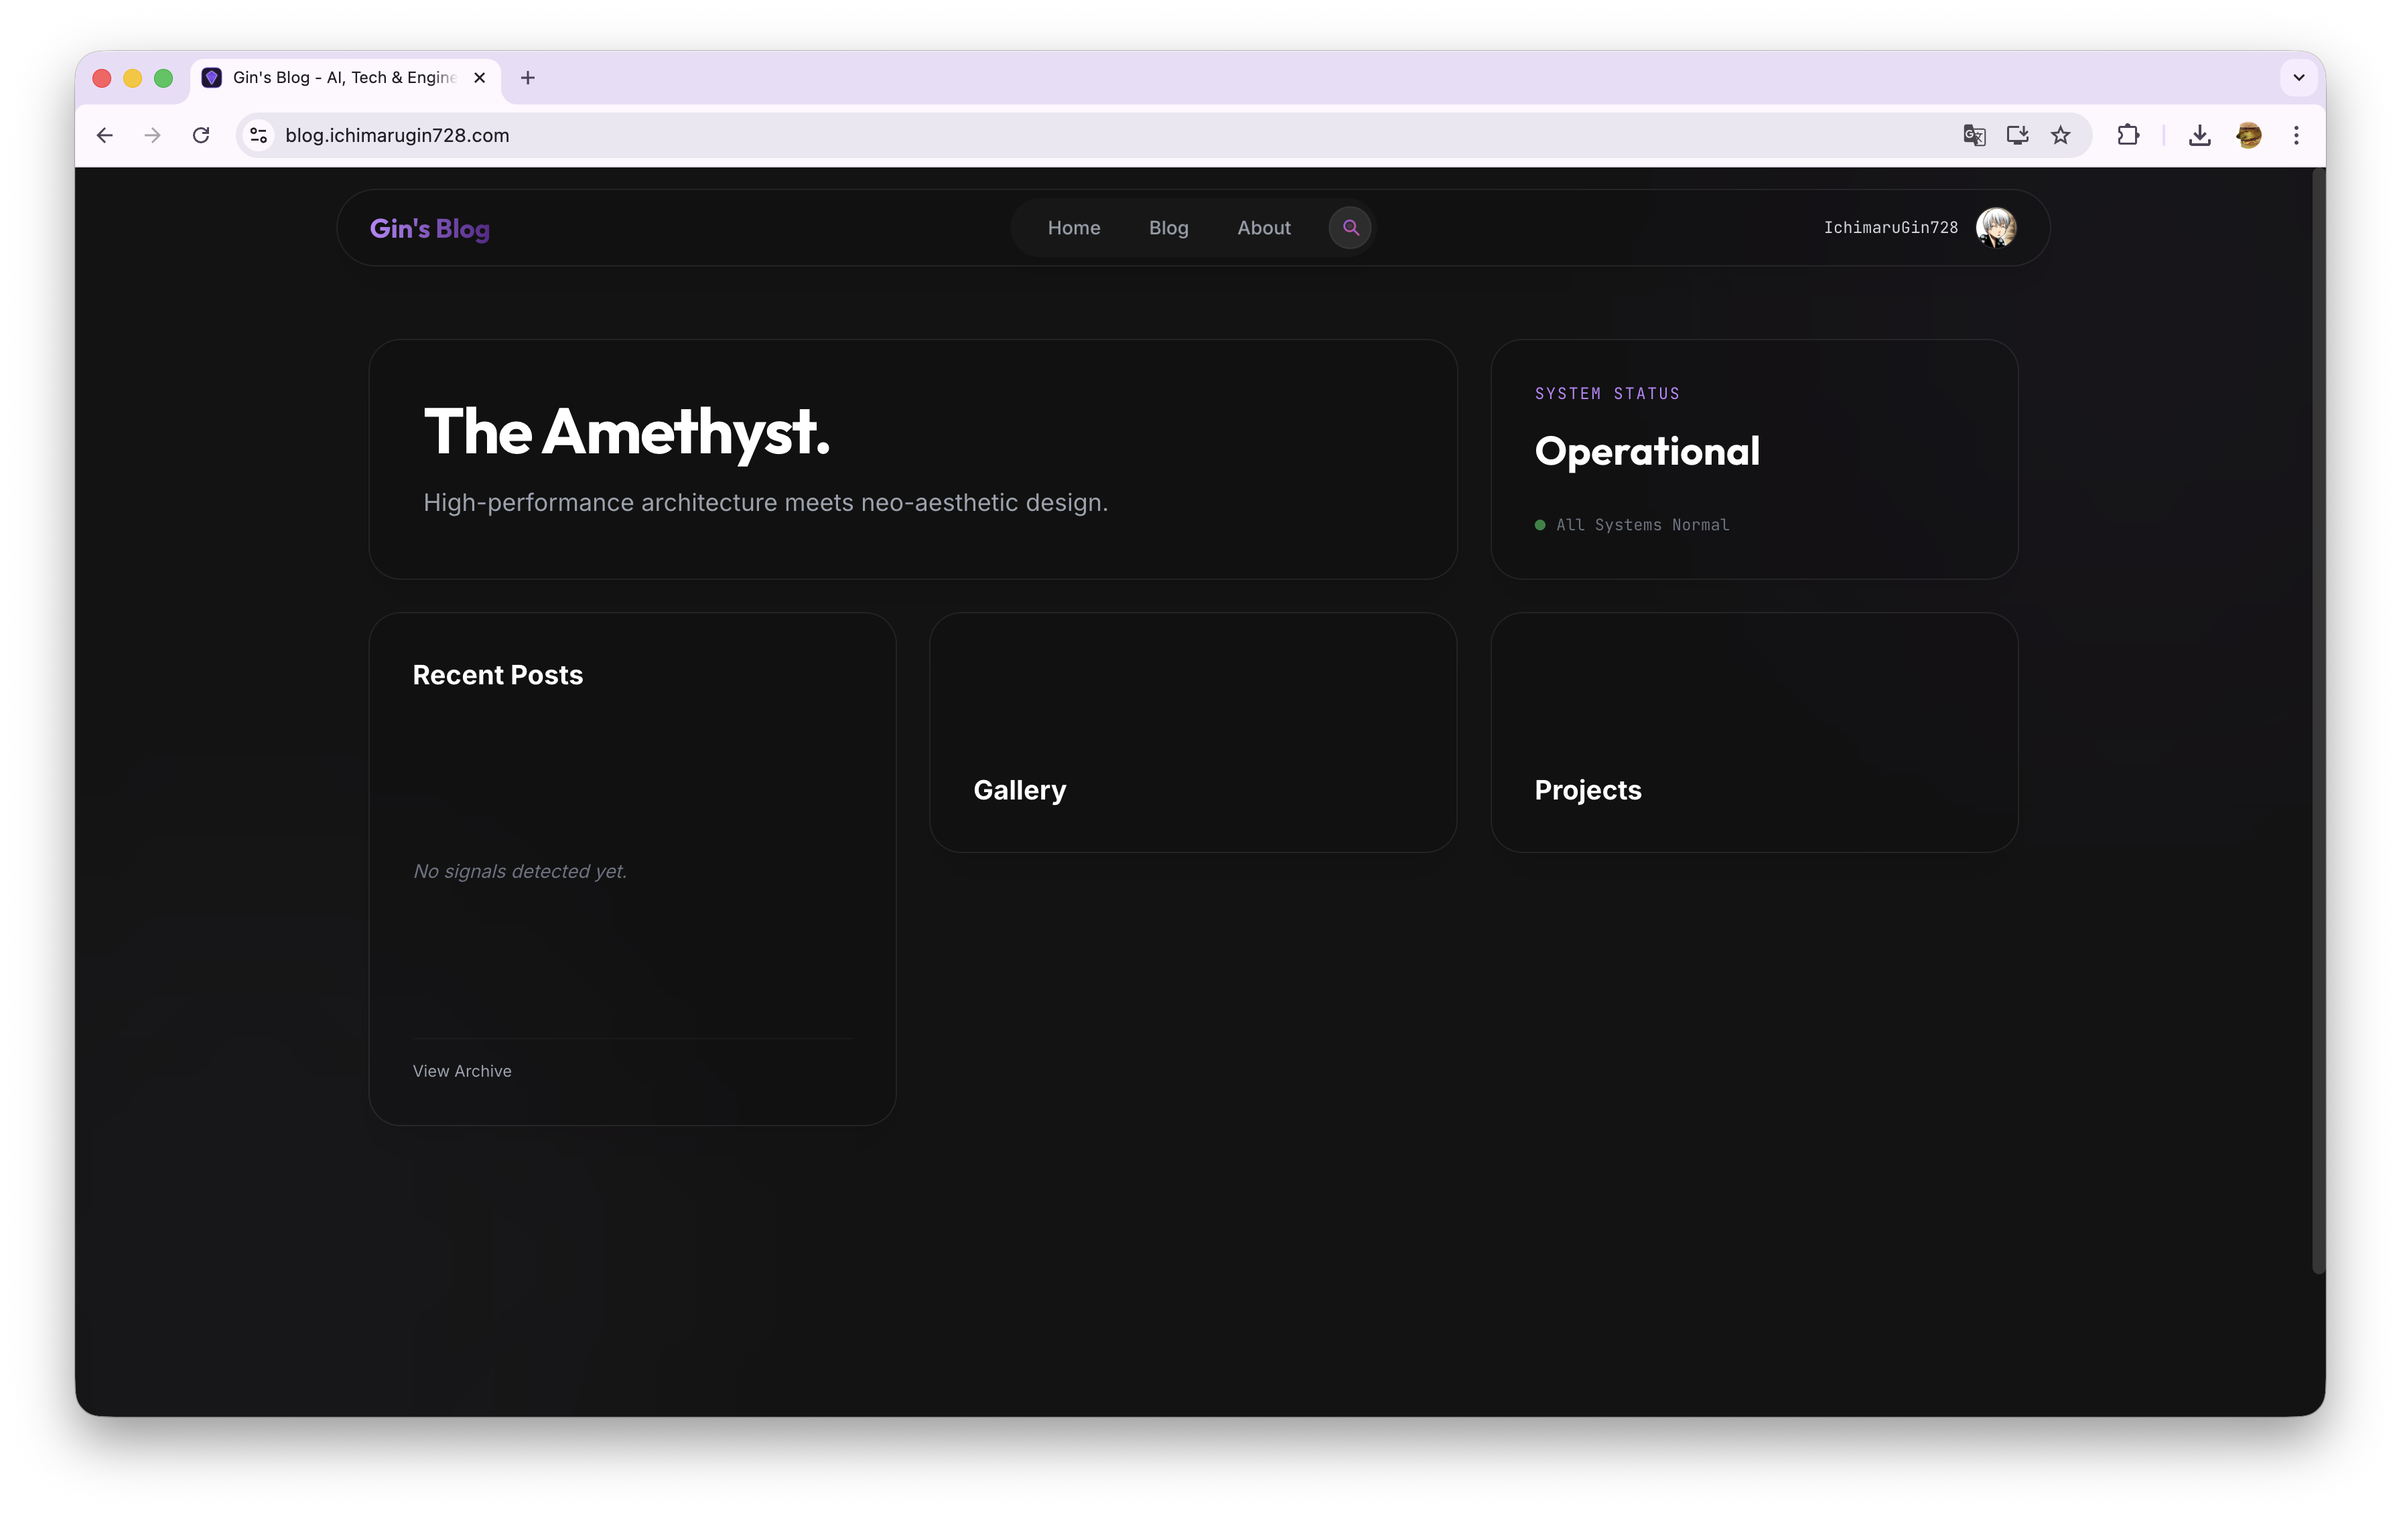
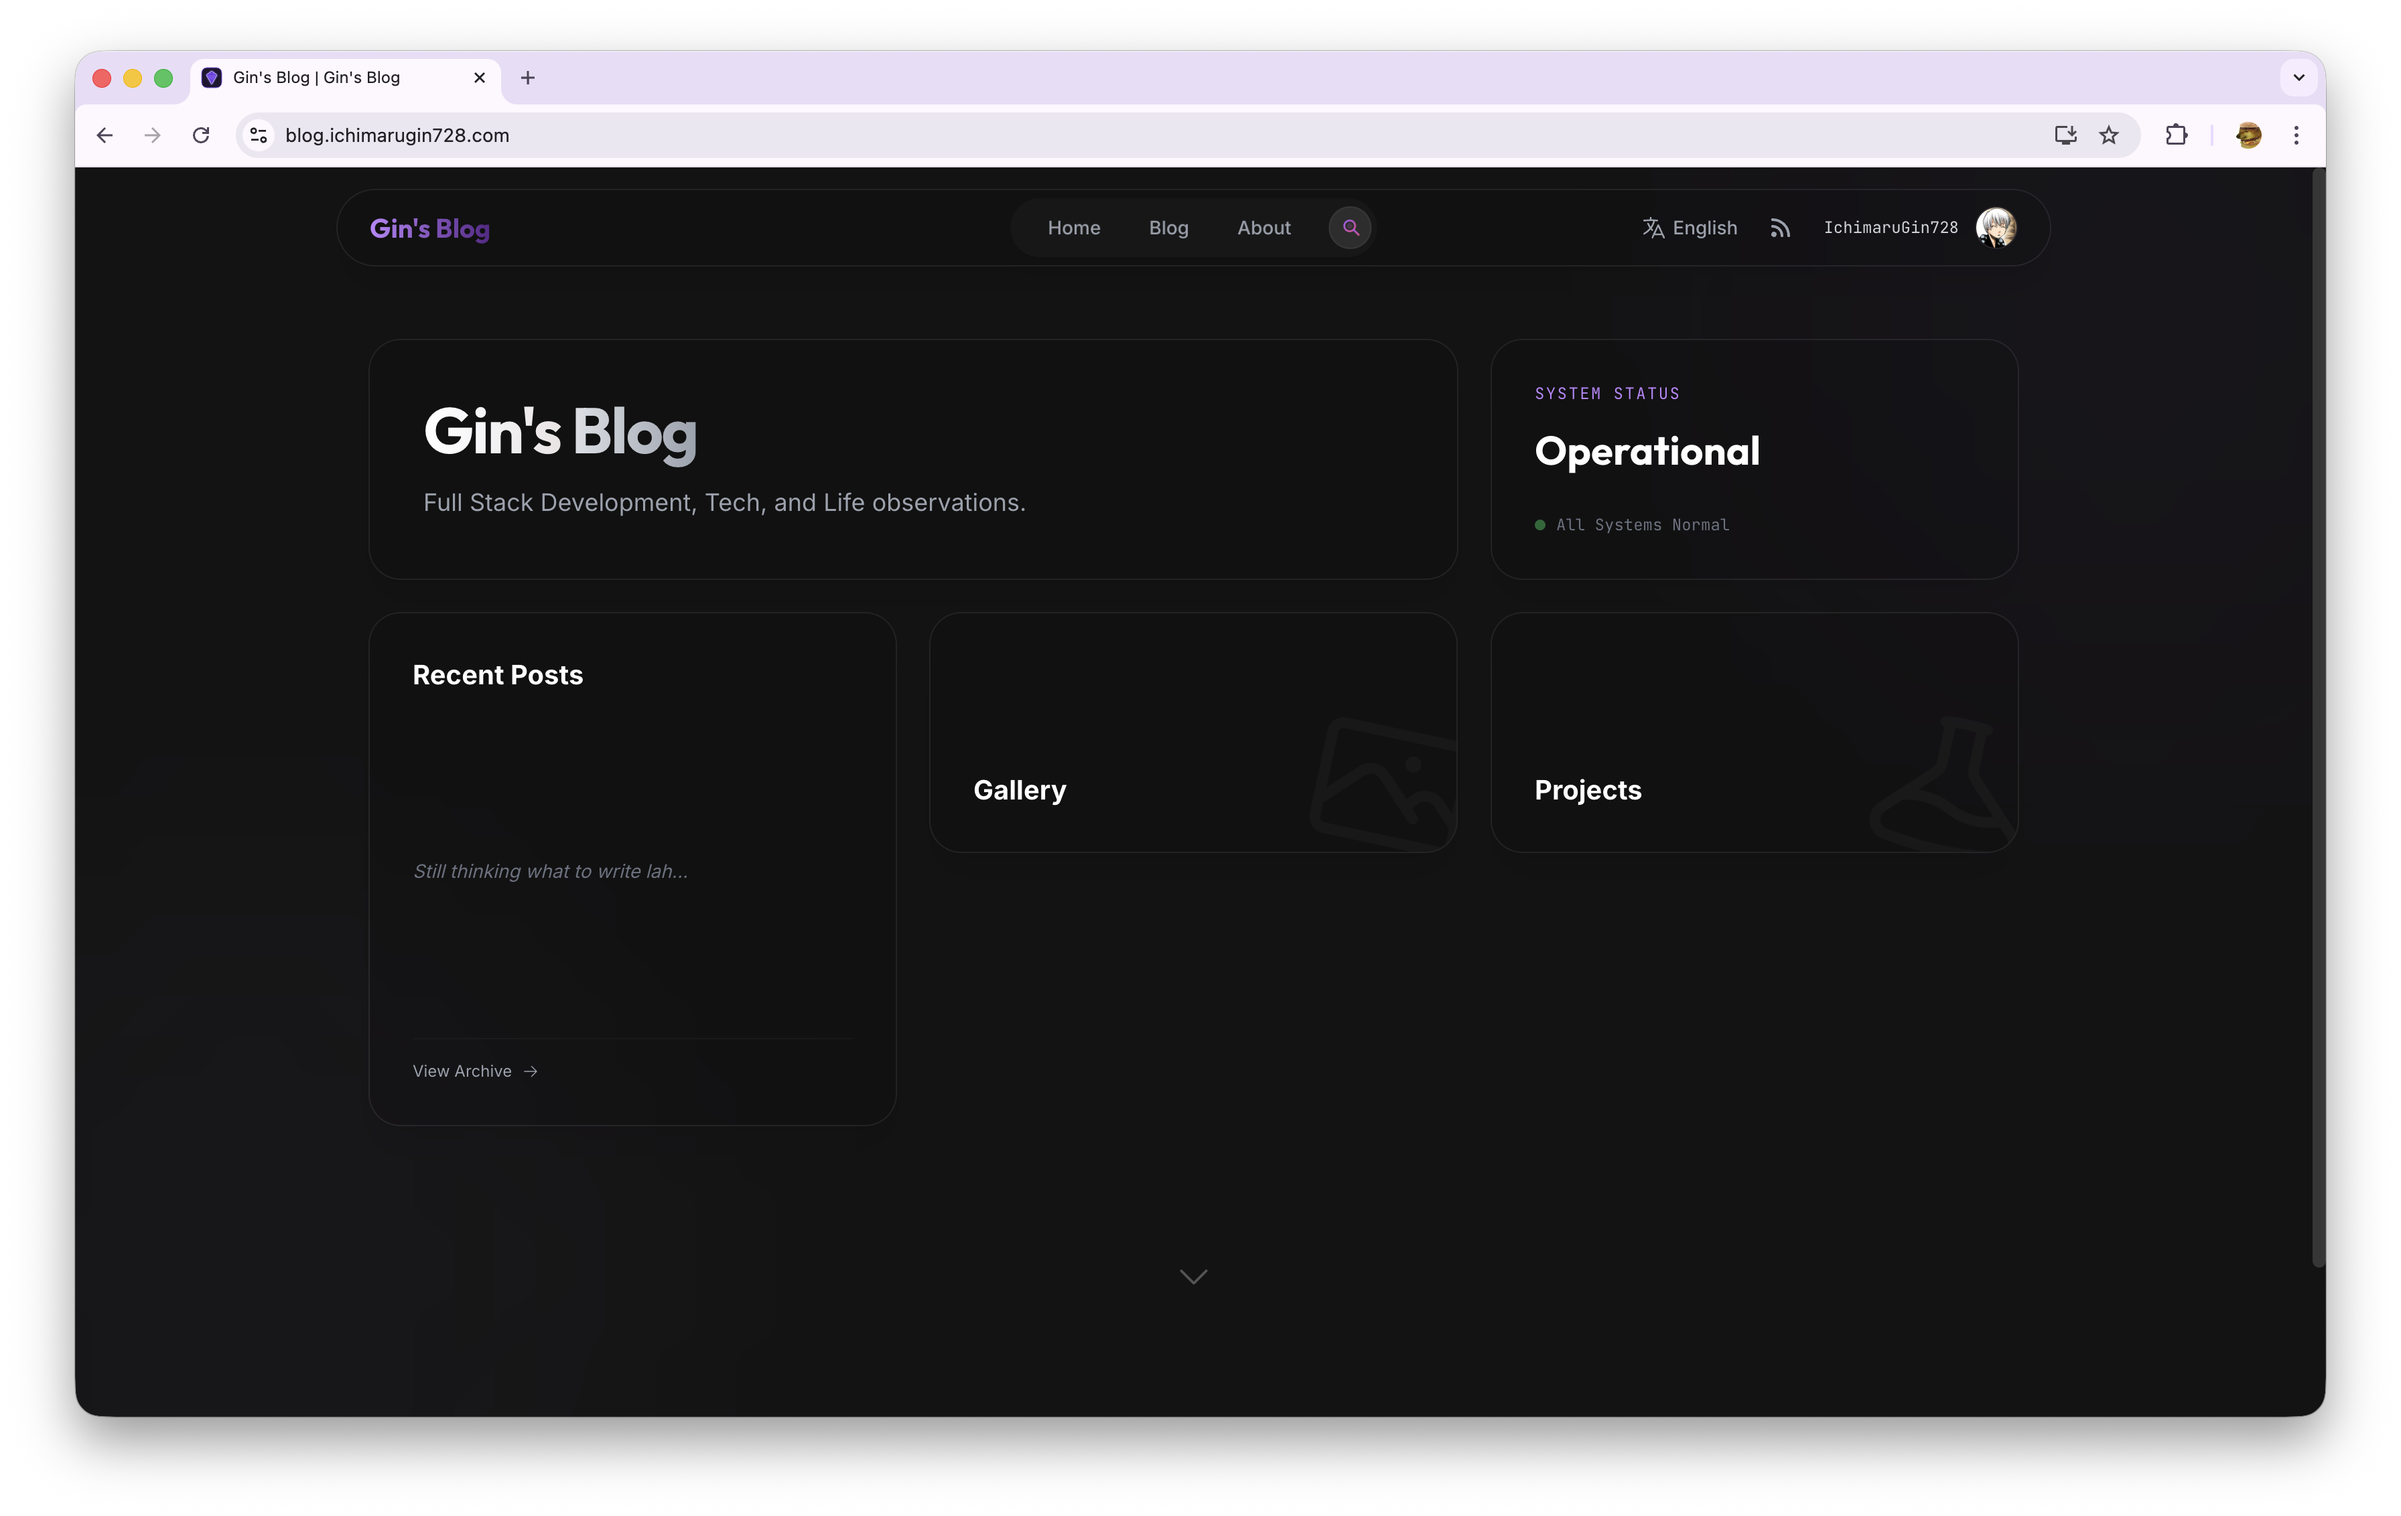
feat: Release v1.0.0, introducing internationalization, UI enhancements, bug fixes, and updating mobile media.

diff --git a/README.md b/README.md
@@ -8,6 +8,24 @@ A high-performance, edge-first blog built with **Astro**, **Cloudflare Workers &
 
 > **Live Demo**: [blog.ichimarugin728.com](https://blog.ichimarugin728.com)
 
+## 🆕 Latest Updates
+
+We've just pushed a major update focused on internationalization and polishing the user experience.
+
+*   **🌐 Multi-Language Support**: Fully integrated **i18n** for **English (SG)** and **Chinese (Simplified)**.
+    *   Content automatically served based on URL path.
+    *   Dynamic locale routing for SEO (`og:locale`, `html lang`).
+*   **📡 Smart RSS**: Multi-language RSS feeds.
+    *   English users get `/rss.xml`.
+    *   Chinese users get `/zh-SG/rss.xml`.
+*   **🎨 UI Polish**:
+    *   **Smoother Transitions**: Implemented view transitions with cross-fade animations for a "native app" feel.
+    *   **Prefetching**: Hover-to-load mechanics for instant page navigation.
+    *   **Robust Search**: Fixed issues with search interaction persisting across client-side navigation.
+*   **🐛 Bug Fixes**: Patched Z-index overlaps, mobile navigation active states, and footer link logic.
+
+---
+
 ## ✨ Gallery
 
 ### 🌐 Core Experience
@@ -28,7 +46,7 @@ A high-performance, edge-first blog built with **Astro**, **Cloudflare Workers &
 ### 📱 Extras
 | Music Manager | Mobile View |
 | :---: | :---: |
-| ![Music Console](media/music-manager.png) | <img src="media/mobile.png" width="300" /> |
+| ![Music Console](media/music-manager.png) | <img src="media/mobile.jpg" width="300" /> |
 
 ## 🚀 Key Features
 
